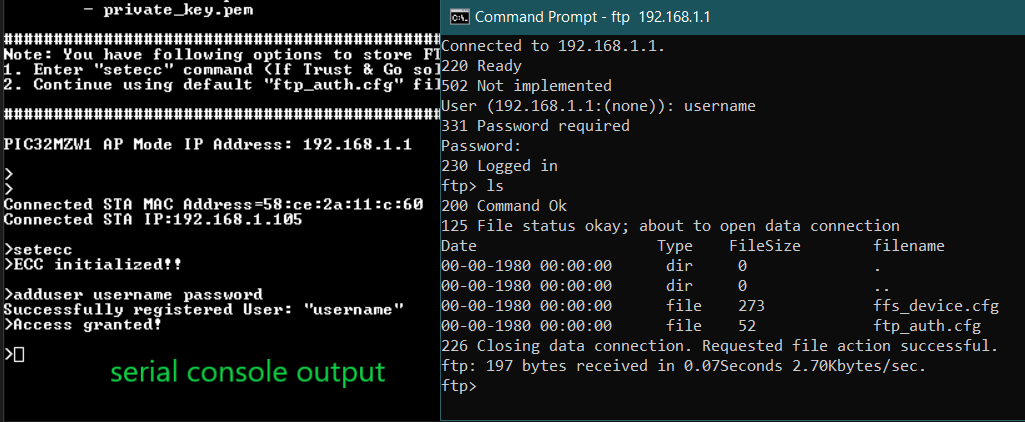
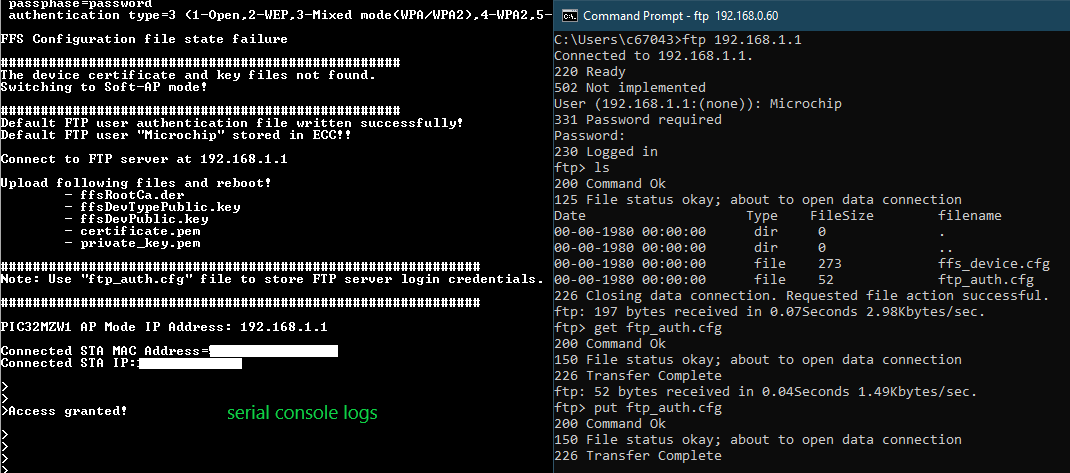
Updates app readme file

Changed region(s): [[0.0, 0.0, 1.0, 1.0]]

diff --git a/Example/README.md b/Example/README.md
@@ -131,23 +131,23 @@ The example project demonstrates the FFS on WFI32-IoT platform. Please follow th
 
 11. The WFI32-IoT board emulates device console serial port, open the device console port using any terminal tool such as Teraterm or Termit. Use the baudrate 115200, parity None, stop bit 1.
 
-12. The WFI32-IoT board hosts FTP server while running the demo for the first time. Or press and hold SW1 and SW2 during the boot up to force FTP server mode.
-<p align="center"><img width="600" src="../Docs/ffs_ftp_first_boot.png">
+12. If the certificate and key files required for FFS are not available on the WFI32-IoT board, it will boot up in Soft-AP mode and host the FTP server. Or press and hold SW1 and SW2 during the boot up to force FTP server mode.
+
+<p align="center"><img width="600" src="../Docs/ffs_ftp_softap_boot.png">
 </p>
 
-13. The serial console output of the device lists all the certificate and key files needed for the FFS. Follow the instructions on the console to connect with FTP server and copy all the five listed files to it. These files are available in the "../tools" folder. 
+13. The serial console logs of the device lists all the certificate and key files needed for FFS. Follow the instructions on the console to connect with FTP server and copy all the listed files to it. These files are available in the "../tools" folder.
 	- Notes: 
-		There are two options to store FTP server login credentials:
-			1. ECC: This option will store the credentials in ECC (On-Chip Trust & Go solution) and User should be registered using "adduser" command before connecting to FTP server. (Example: adduser <username> <password>) 
-			2. Default "ftp_auth.cfg" File: This option will store the credentials in a file which can be modified if needed.
-			 (Please note the Default Username: "Microchip" and Password: "Harmony")
+			1. Default login credentials for the FTP server will be stored in the ECC (On-Chip Trust & Go solution), if available and in the "ftp_auth.cfg" file
+			2. User can modify default credentials using "ftp_auth.cfg" file. The updated credentials will be copied to ECC on the subsequent boot-up
+			 (Please use the default Username: "Microchip" and Password: "Harmony" while logging-in to FTP server for the first time)
 
 <p align="center"><img width="600" src="../Docs/first_boot_ftp_with_serial_out.png">
 </p>
 <p align="center"><img width="600" src="../Docs/ftp_with_all_keys_certs.png">
 </p>
 
-14. Open the default ffs_device.cfg file in the MSD and provide the device specific details such as **CpuId**, **DeviceName** and **ProductIndex**
+14. Open the default ffs_device.cfg file (available on the FTP server) and provide the device specific details such as **CpuId**, **DeviceName** and **ProductIndex**
 <p align="center"><img width="600" src="../Docs/ffs-device-cfg.png">
 </p>
 
